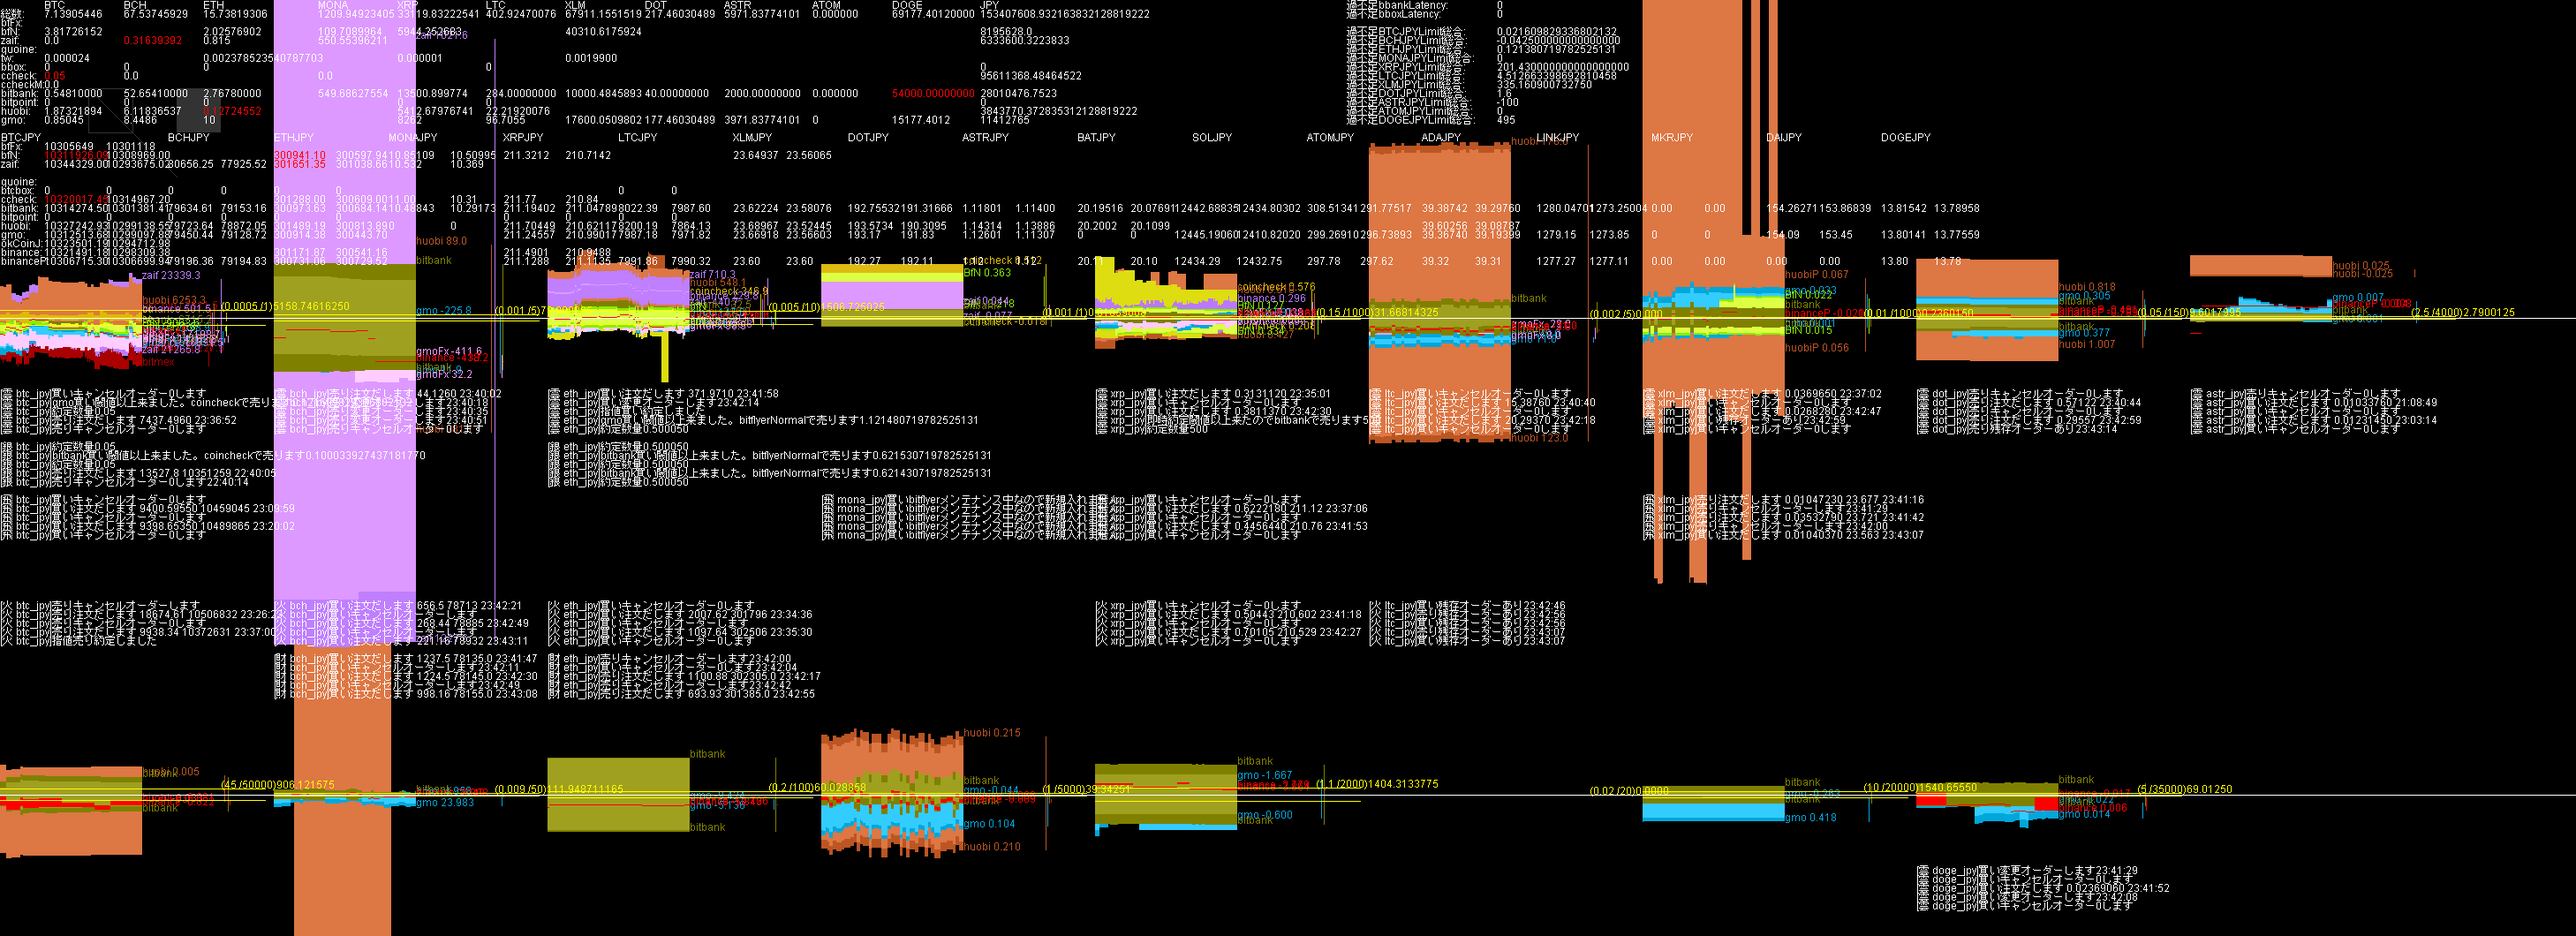
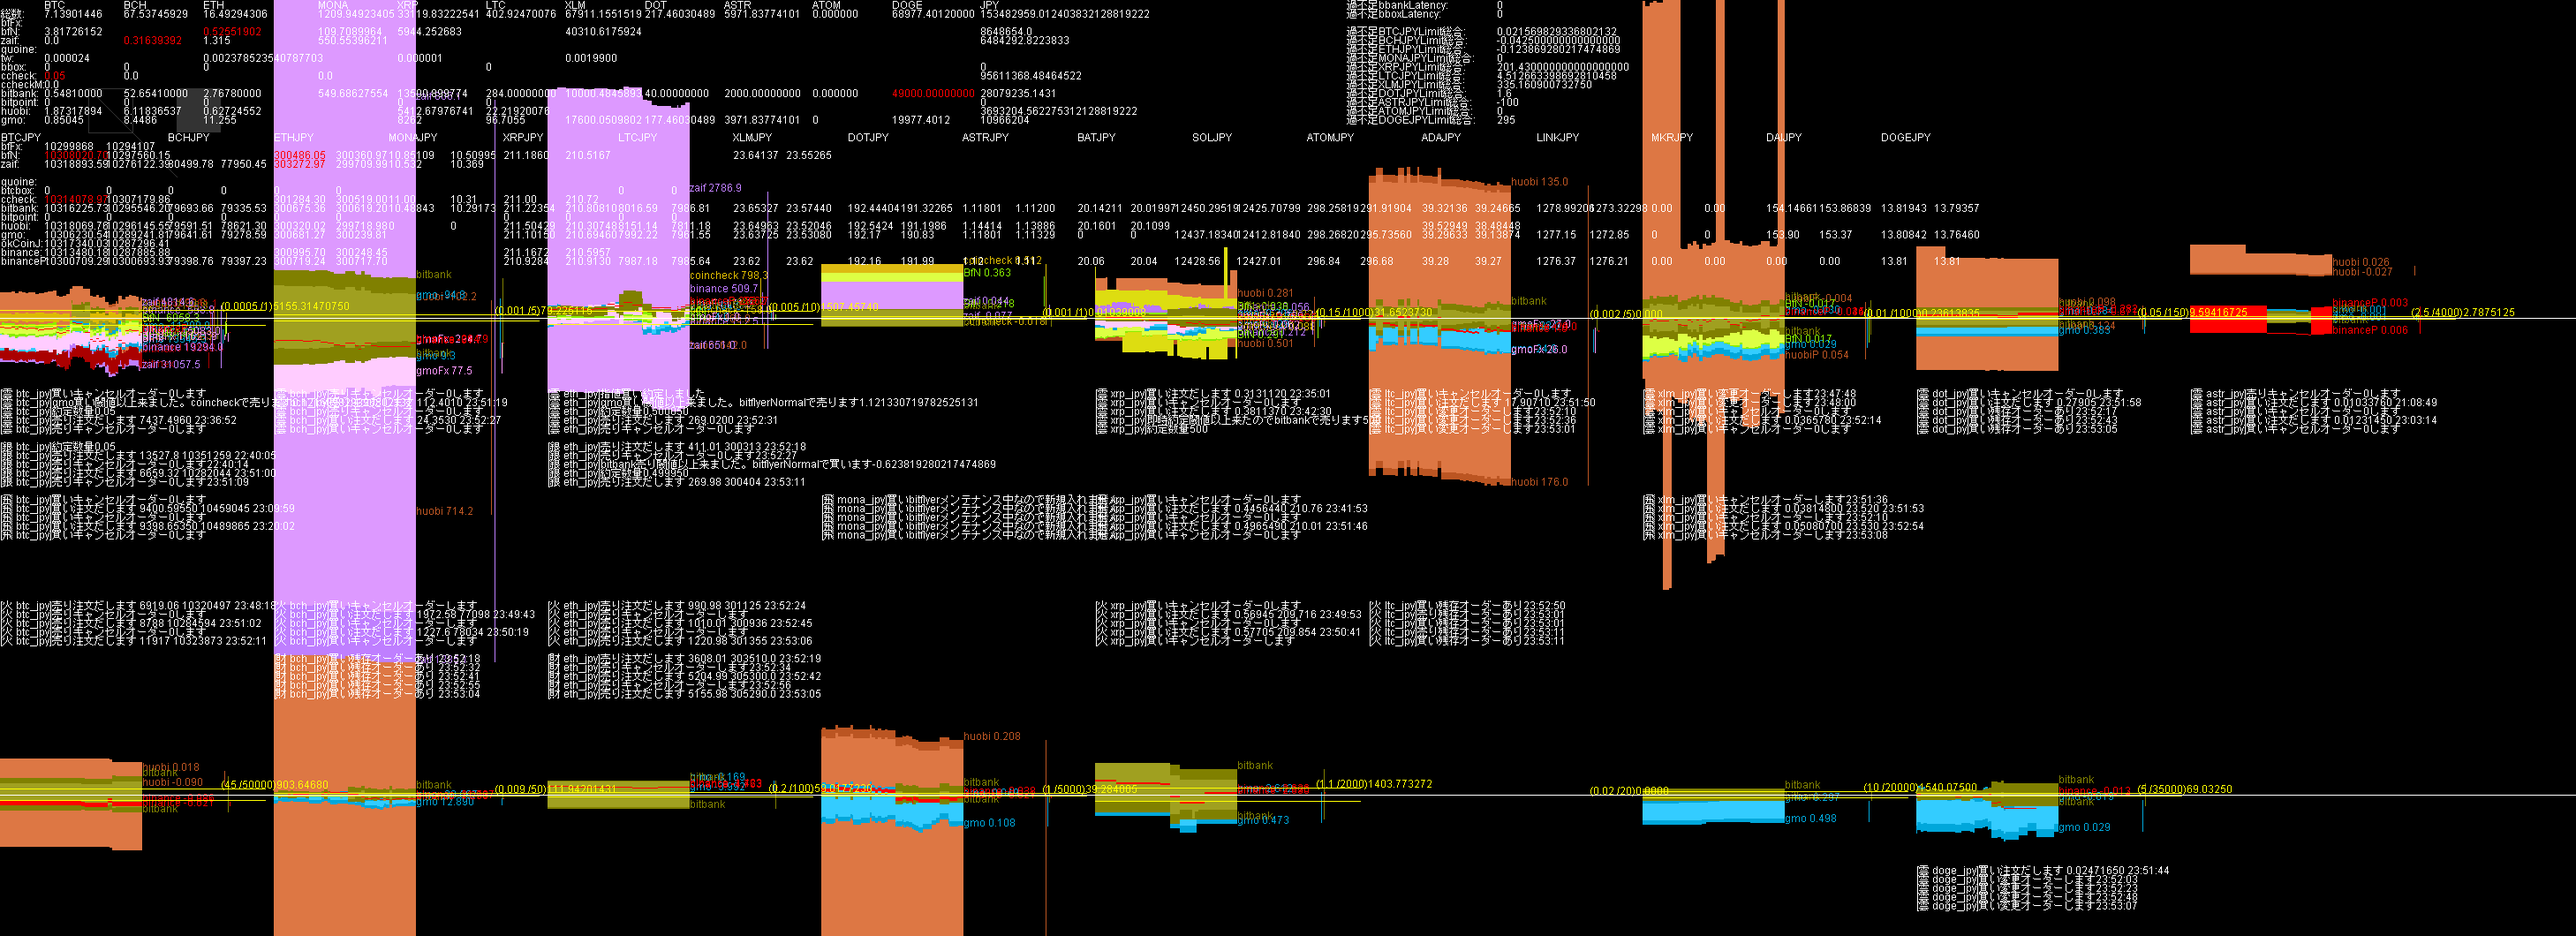
Update HTML file via Java

diff --git a/ca.html b/ca.html
@@ -16,6 +16,9 @@ th { background-color: #222; text-align: center; }
     <tr><th>ddhhmm</th><th>bfJPY</th><th>財JPY</th><th>ccJPY</th><th>銀JPY</th><th>火JPY</th><th>雲JPY</th><th>bfBTC</th><th>財BTC</th><th>ccBTC</th><th>銀BTC</th><th>火BTC</th><th>雲BTC</th><th>bfBCH</th><th>財BCH</th><th>ccBCH</th><th>銀BCH</th><th>火BCH</th><th>雲BCH</th><th>bfETH</th><th>財ETH</th><th>ccETH</th><th>銀ETH</th><th>火ETH</th><th>雲ETH</th><th>bfMONA</th><th>財MONA</th><th>ccMONA</th><th>銀MONA</th><th>火MONA</th><th>雲MONA</th><th>bfXRP</th><th>財XRP</th><th>ccXRP</th><th>銀XRP</th><th>火XRP</th><th>雲XRP</th><th>bfLTC</th><th>財LTC</th><th>ccLTC</th><th>銀LTC</th><th>火LTC</th><th>雲LTC</th><th>bfXLM</th><th>財XLM</th><th>ccXLM</th><th>銀XLM</th><th>火XLM</th><th>雲XLM</th><th>bfDOT</th><th>財DOT</th><th>ccDOT</th><th>銀DOT</th><th>火DOT</th><th>雲DOT</th><th>bfASTR</th><th>財ASTR</th><th>ccASTR</th><th>銀ASTR</th><th>火ASTR</th><th>雲ASTR</th><th>bfDOGE</th><th>財DOGE</th><th>ccDOGE</th><th>銀DOGE</th><th>火DOGE</th><th>雲DOGE</th>    </tr>  </thead>
   <tbody>
     <tr>
+<td>112353</td><td>00864</td><td>00648</td><td>09561</td><td>02807</td><td>00369</td><td>01096</td><td>03.82</td><td>00.00</td><td><span style="color: #ff69b4">00.05</span></td><td>00.55</td><td>01.87</td><td>00.85</td><td>00.00</td><td><span style="color: #ff69b4">00.32</span></td><td>00.00</td><td>52.65</td><td>06.12</td><td>08.45</td><td><span style="color: #ff69b4">00.53</span></td><td>01.32</td><td>00.00</td><td>02.77</td><td>00.63</td><td>11.26</td><td>0109.7</td><td>0550.6</td><td>0000.0</td><td>0549.7</td><td>0000.0</td><td>0000.0</td><td>05944</td><td>00000</td><td>00000</td><td>13501</td><td>05413</td><td>08262</td><td>00.00</td><td>00.00</td><td>00.00</td><td>284.00</td><td>22.22</td><td>96.71</td><td><span style="color: #4169e1">00.00</span></td><td>00.00</td><td>00.00</td><td>10000.48</td><td>00.00</td><td>17600.05</td><td>00.00</td><td>00.00</td><td>00.00</td><td>40.00</td><td>00.00</td><td>177.46</td><td>00.00</td><td>00.00</td><td>00.00</td><td>2000.00</td><td>00.00</td><td>3971.84</td><td>00.00</td><td>00.00</td><td>00.00</td><td><span style="color: #4169e1">49000.00</span></td><td>00.00</td><td>19977.40</td>
+    </tr>
+    <tr>
 <td>112343</td><td>00819</td><td>00633</td><td>09561</td><td>02801</td><td>00384</td><td>01141</td><td>03.82</td><td>00.00</td><td><span style="color: #ff69b4">00.05</span></td><td>00.55</td><td>01.87</td><td>00.85</td><td>00.00</td><td><span style="color: #ff69b4">00.32</span></td><td>00.00</td><td>52.65</td><td>06.12</td><td>08.45</td><td>02.03</td><td>00.82</td><td>00.00</td><td>02.77</td><td><span style="color: #ff69b4">00.13</span></td><td>10.00</td><td>0109.7</td><td>0550.6</td><td>0000.0</td><td>0549.7</td><td>0000.0</td><td>0000.0</td><td>05944</td><td>00000</td><td>00000</td><td>13501</td><td>05413</td><td>08262</td><td>00.00</td><td>00.00</td><td>00.00</td><td>284.00</td><td>22.22</td><td>96.71</td><td><span style="color: #4169e1">00.00</span></td><td>00.00</td><td>00.00</td><td>10000.48</td><td>00.00</td><td>17600.05</td><td>00.00</td><td>00.00</td><td>00.00</td><td>40.00</td><td>00.00</td><td>177.46</td><td>00.00</td><td>00.00</td><td>00.00</td><td>2000.00</td><td>00.00</td><td>3971.84</td><td>00.00</td><td>00.00</td><td>00.00</td><td><span style="color: #4169e1">54000.00</span></td><td>00.00</td><td>15177.40</td>
     </tr>
     <tr>
